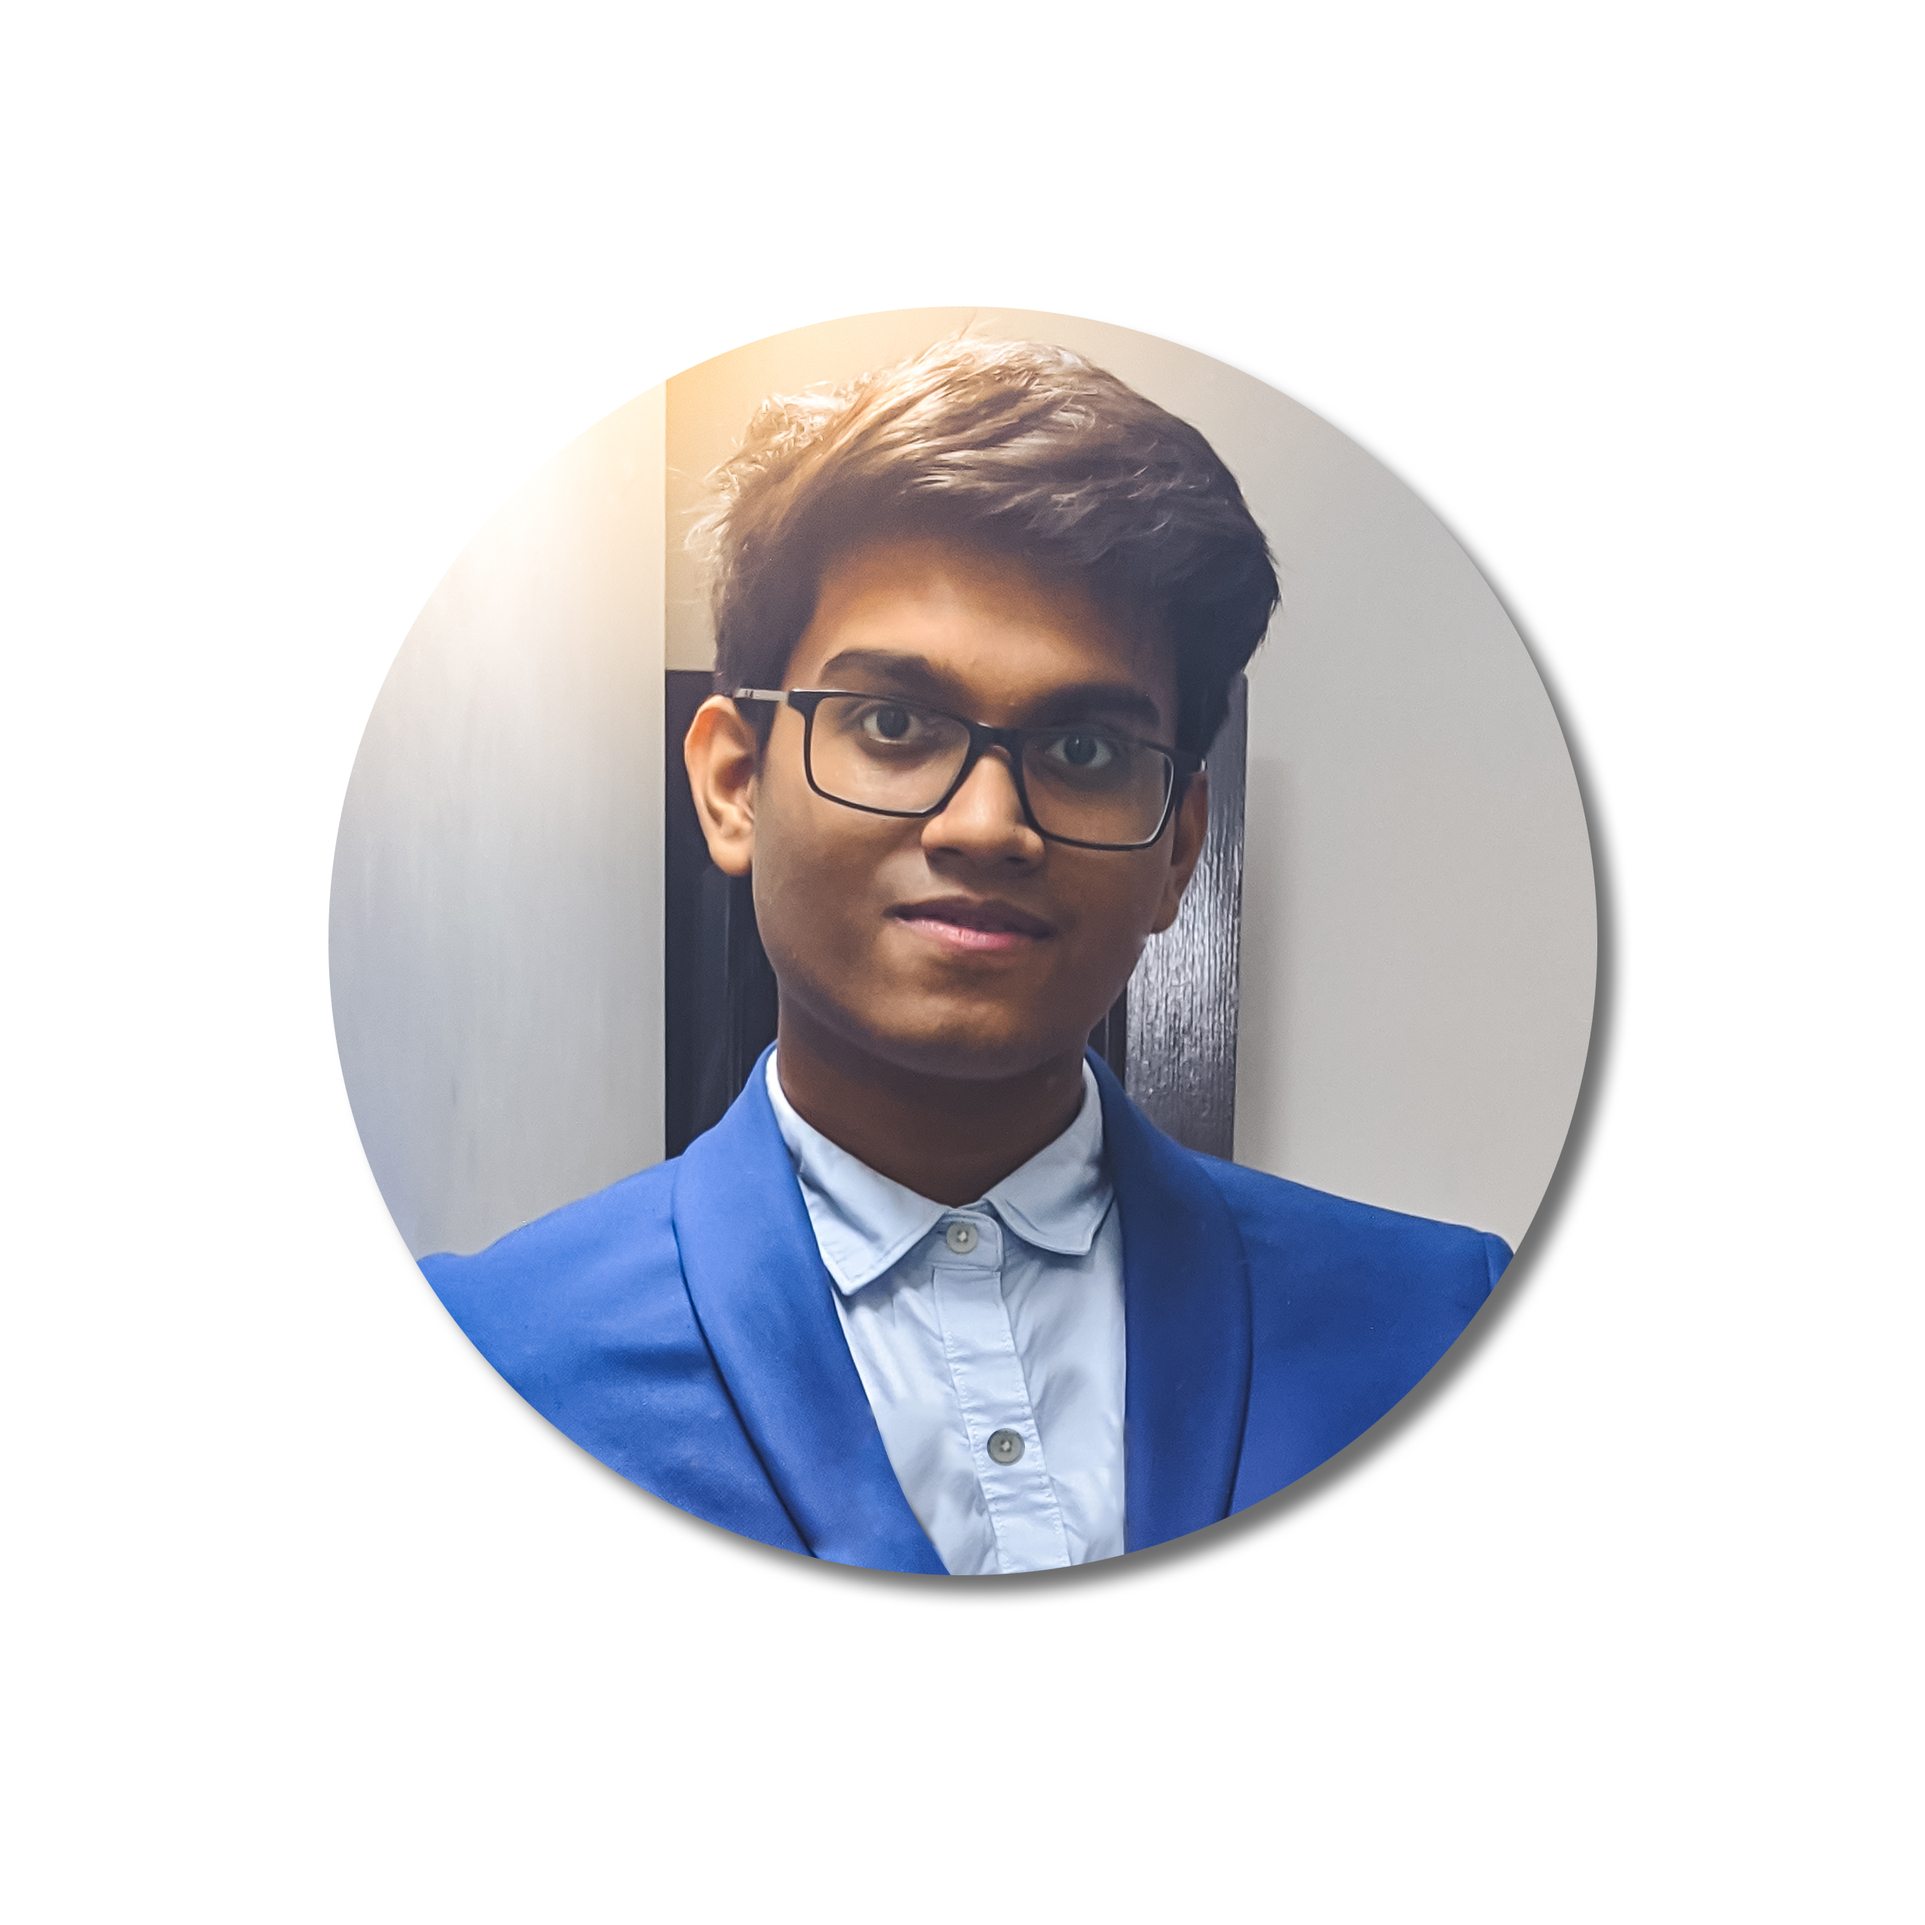
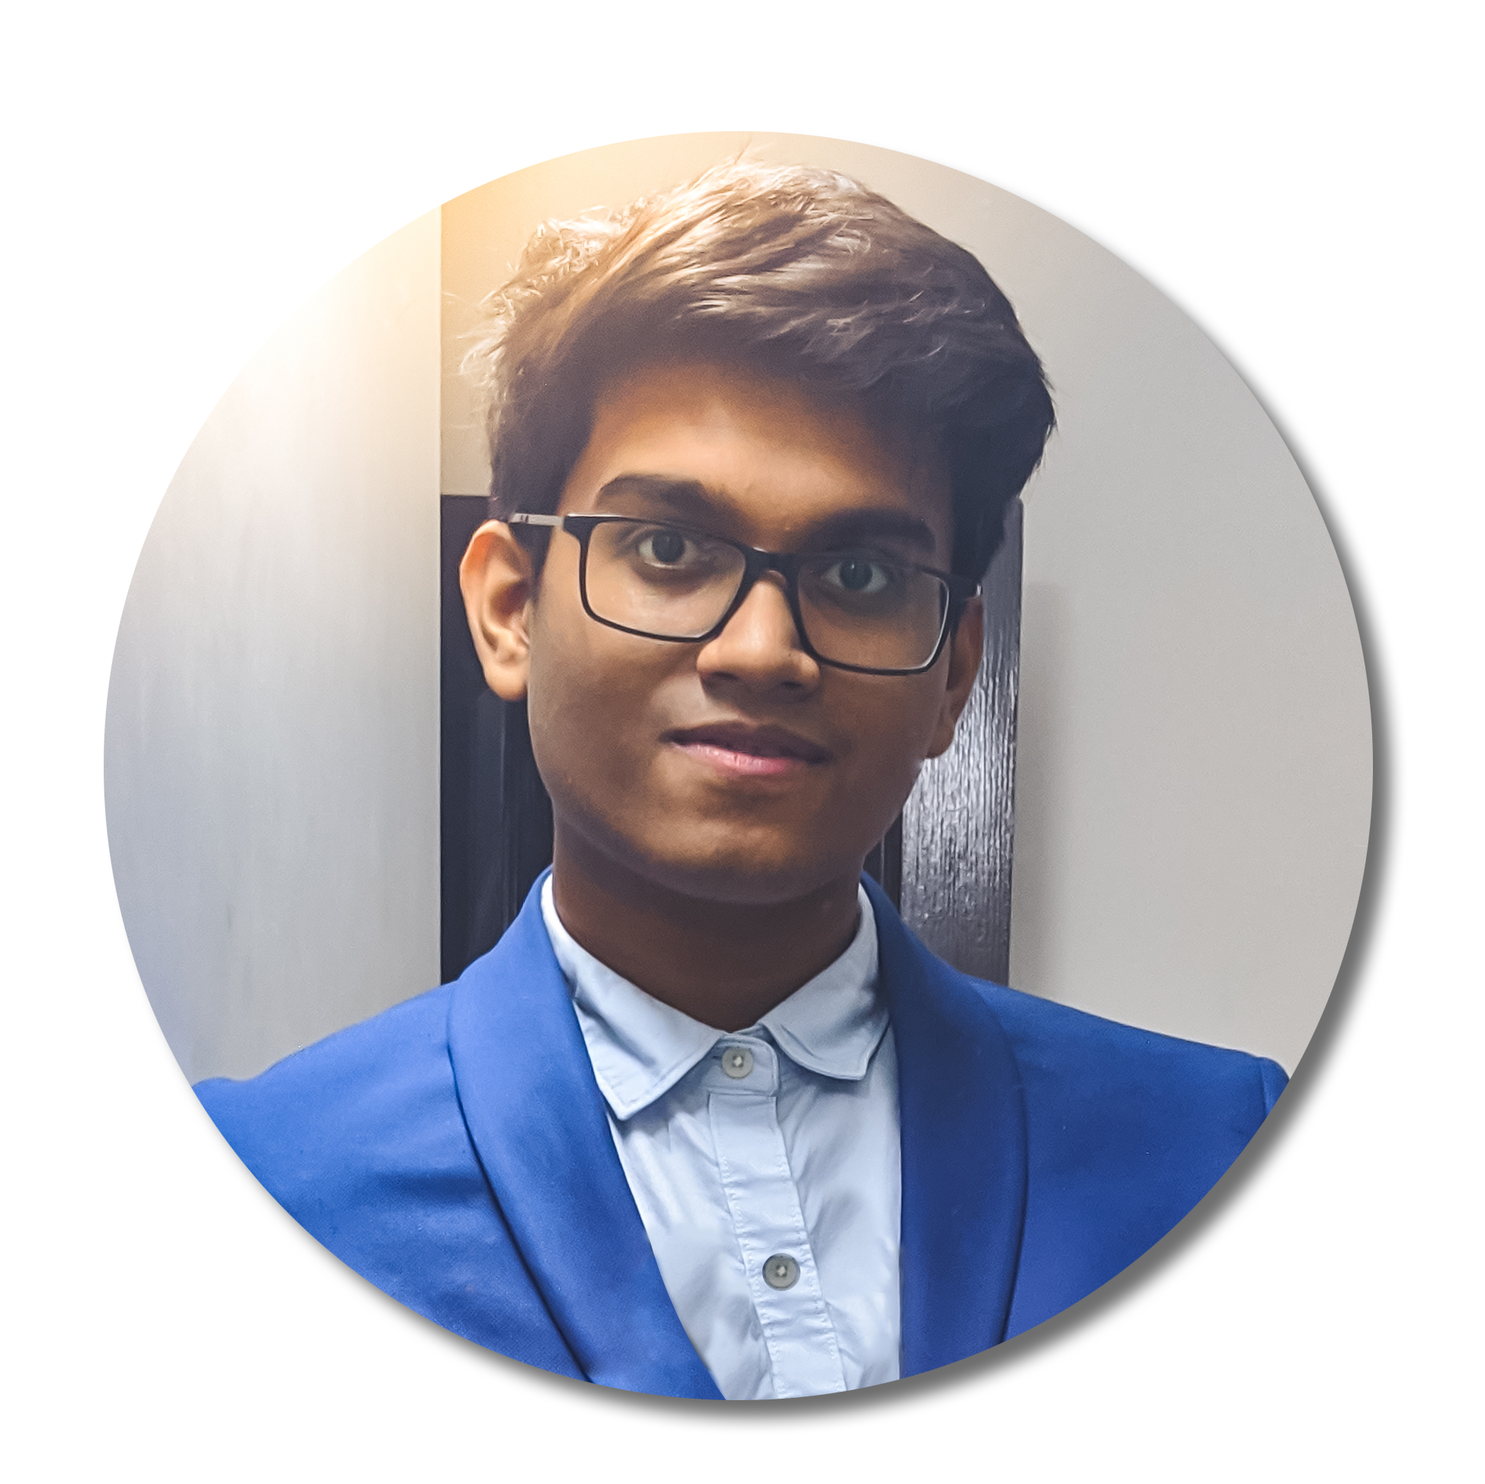
Profile Picture

diff --git a/index.html b/index.html
@@ -98,7 +98,7 @@
         <div class="row jumbotron ">
             <div class="col-lg-12 " id="Portrait ">
                 <div class="portrait " align="center ">
-                    <a href="About.html"> <img src="img/protrait.png "></a>
+                    <a href="About.html"> <img src="img/nophone.png "></a>
                 </div>
             </div>
             <div class="col-lg-12 " id="Name " align="center ">
